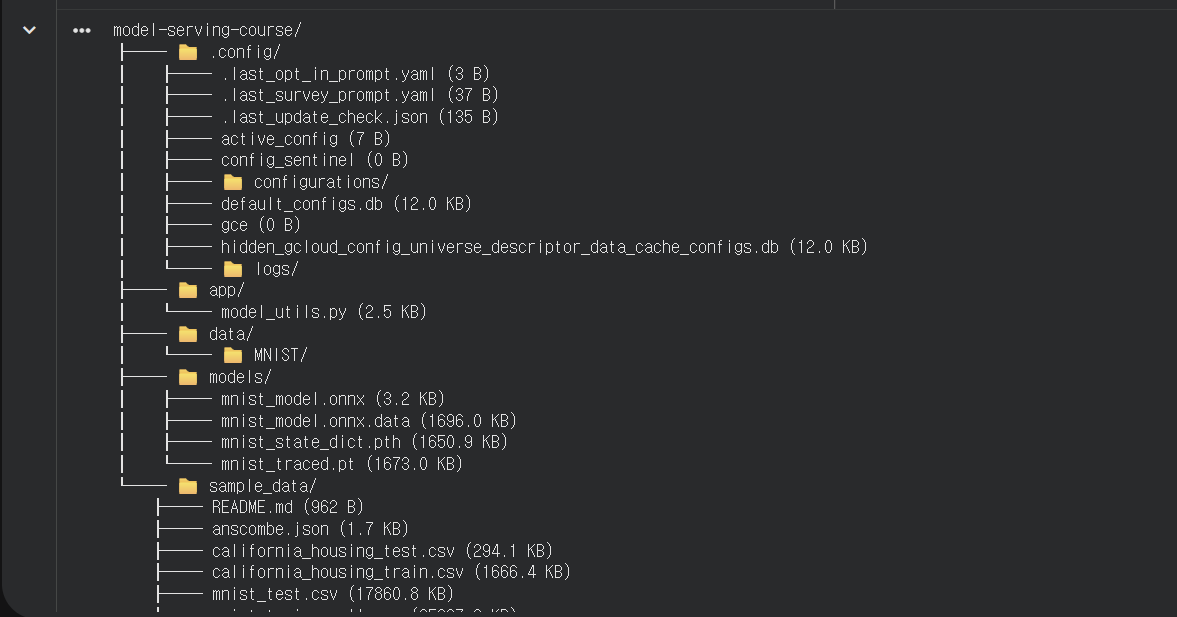
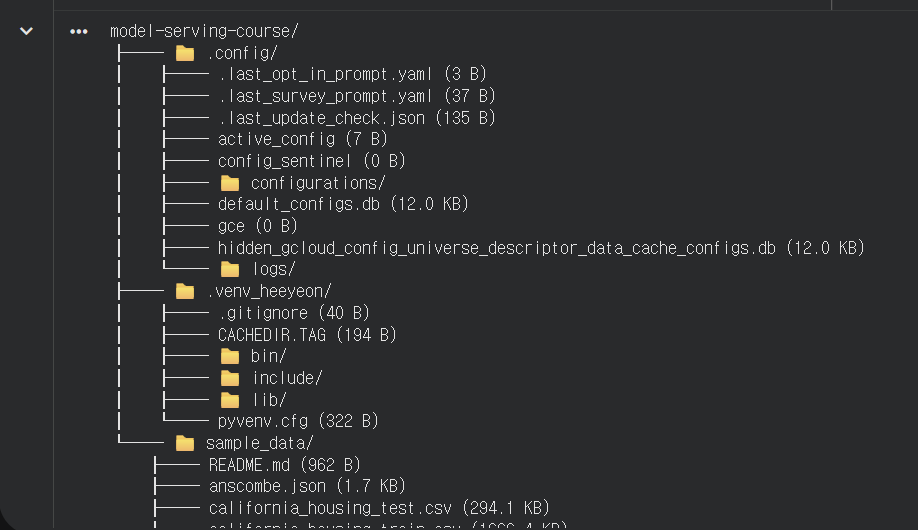
Update DP01 README and final screenshot

diff --git a/06_Deployment/DP01/README.md b/06_Deployment/DP01/README.md
@@ -1,4 +1,37 @@
-## 섹션 1. 모델 학습과 배포
+# DP01 모델 배포 기초
+
+## 1. 실습 수행 내역
+
+### 5.5 배치 추론 테스트
+
+state_dict, TorchScript, ONNX 방식으로 저장한 모델의 추론 결과를 비교하였다.
+
+테스트 데이터에 대해 각 모델의 예측 결과가 동일하게 출력되는 것을 확인하였다.
+
+![5.5 배치 추론 테스트](./images/5.5%20배치%20추론%20테스트.png)
+
+
+---
+
+### 5.6 추론 함수 분리
+
+모델의 추론 기능을 별도의 함수로 분리하여 실행하였다.
+
+예측 결과와 클래스별 확률이 정상적으로 출력되는 것을 확인하였다.
+
+![5.6 추론 함수 분리](./images/5.6%20추론%20함수%20분리.png)
+
+
+---
+
+### 5.7 프로젝트 최종 구조 확인
+
+모델 배포 실습을 완료한 후 최종 프로젝트 파일 구조를 확인하였다.
+
+state_dict, TorchScript, ONNX 모델 파일과
+모델 추론을 위한 `model_utils.py` 파일이 정상적으로 생성되었다.
+
+![5.7 프로젝트 최종 구조](./images/5.7%20프로젝트%20최종%20구조%20확인.png)## 섹션 1. 모델 학습과 배포
 
 ### Q1. `.pth` 파일만 전달했을 때 상대방이 모델을 바로 사용할 수 없는 이유는 무엇입니까?
 
